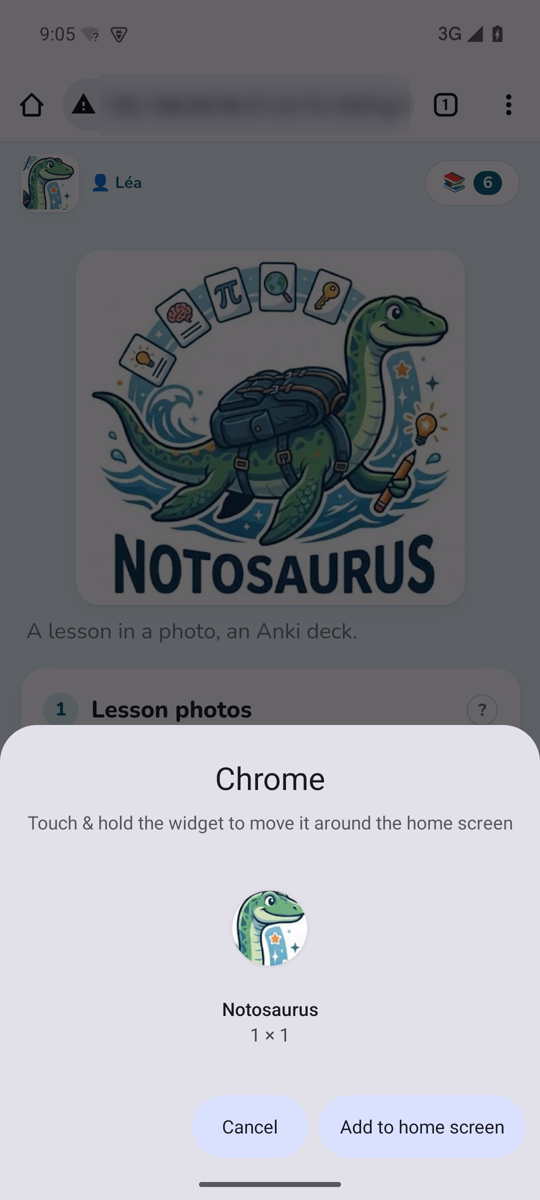
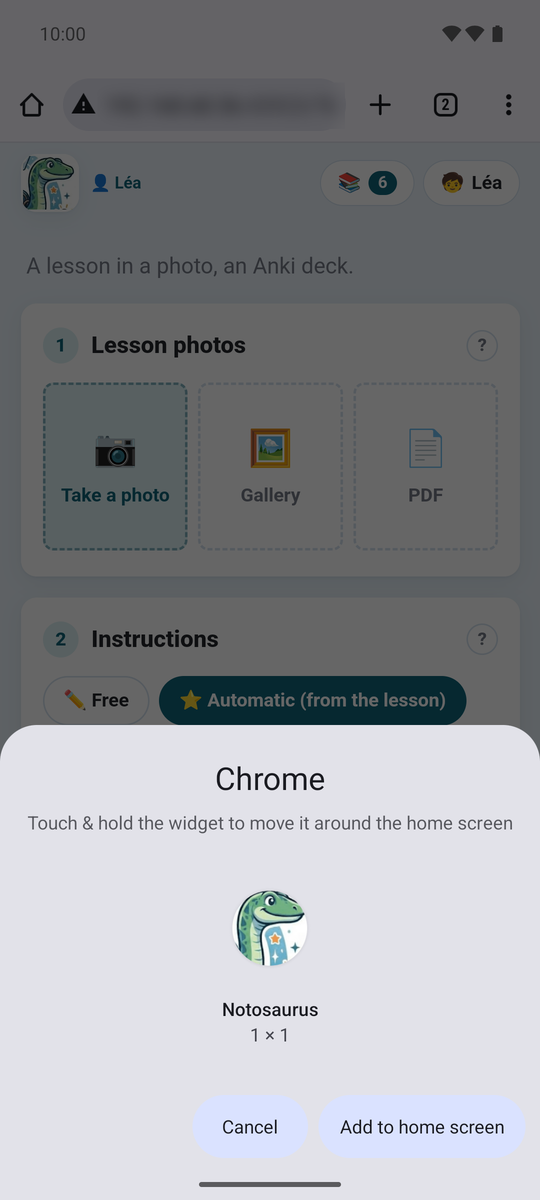
📸 Docs: the Android app's screenshots (English and French) (#312)
The app's group of pages had no picture. 11 screenshots per language
(English, French), taken on an emulator (Android 15, AnkiDroid 2.25.0,
read-only AVD), with the debug build calling **Notosaurus's test relay**
(its default: real Gemini, real voices, its own test licence); the demo
lessons of `docs/demo/<lang>/lessons` pushed into the app's storage (no
generation); a clean status bar (demo mode: 10:00, full Wi-Fi).

| Shot | Page |
|---|---|
| `app-welcome` | android-app, Before you start |
| `app-home`, `app-review` | android-app, Your first lesson |
| `app-report` (⚑ Report content sheet) | android-app, The app's own |
| `app-settings` (no subscription yet: the trial starts with the first
lesson) | app-settings, app-subscription |
| `app-settings-more` (instructions, voices with Voice per language,
lessons on this phone) | app-settings |
| `app-ankidroid-permission`, `app-ankidroid-decks` | app-ankidroid |
| `app-ankidroid-card` (a card with its sound and ✎ Notosaurus) |
app-ankidroid, Correcting a card from AnkiDroid |
| `app-computer-settings`, `app-computer-unreachable` |
app-with-computer |

What the screenshots don't show, honestly:
- **No subscription buttons**: Google Play offers nothing on the
emulator, so the 🔑 section shows the trial line and the licence key
field, no prices. The licence key was cleared for that shot (none shown
anywhere).
- The debug build's **Real relay / Test relay** chips were hidden for
the shots: a release doesn't have them.
[…]

diff --git a/docs/src/content/docs/fr/android-app.md b/docs/src/content/docs/fr/android-app.md
@@ -37,6 +37,8 @@ leçons, puis vous demande d'accepter sa [politique de confidentialité](../app-
 - Une page de cahier montre souvent le nom de l'enfant : cachez-le avec **🖍** avant l'envoi
   (voir [Photos et PDF](../photos/)).
 
+![L'accueil de l'application : un outil pour les parents, Gemini, l'essai gratuit, la politique de confidentialité à accepter](../../../assets/screenshots/fr/app-welcome.png)
+
 ## Votre première leçon
 
 1. **🧒** en haut de la page : ajoutez la fiche de votre enfant (prénom, classe), pour que les
@@ -53,6 +55,10 @@ leçons, puis vous demande d'accepter sa [politique de confidentialité](../app-
 
 La leçon est gardée sur le téléphone : rouvrez-la depuis **📚** pour la corriger et la renvoyer.
 Ses cartes sont mises à jour dans AnkiDroid, pas dupliquées.
+
+![La page principale de l'application : les photos de la leçon, la consigne avec 🎤, l'enfant choisi en haut](../../../assets/screenshots/fr/app-home.png)
+
+![Les cartes d'une leçon dans l'application, avec le champ de correction et son 🎤](../../../assets/screenshots/fr/app-review.png)
 
 ## Où elle fonctionne
 
@@ -82,6 +88,8 @@ pas :
 - **Les mises à jour** passent par Google Play. Quand une nouvelle version est disponible,
   l'application dit **Une nouvelle version de Notosaurus est disponible**, avec un bouton
   **Mettre à jour**.
+
+![La feuille Signaler un contenu : pourquoi, un commentaire, et exactement ce qui sera envoyé](../../../assets/screenshots/fr/app-report.png)
 
 Voir aussi [Les réglages de l'application](../app-settings/) et, quand quelque chose ne va pas,
 [Dépannage de l'application](../app-troubleshooting/).

diff --git a/docs/src/content/docs/fr/app-ankidroid.md b/docs/src/content/docs/fr/app-ankidroid.md
@@ -18,6 +18,8 @@ pas de `.apkg`, pas d'ordinateur, pas de synchronisation à attendre.
 installé et Notosaurus peut y ajouter des cartes**, ou un bouton pour **Installer AnkiDroid** ou
 pour **Autoriser**.
 
+![AnkiDroid demande si Notosaurus peut accéder aux notes, cartes, types de notes et paquets, et en créer](../../../assets/screenshots/fr/app-ankidroid-permission.png)
+
 ## Envoyer les cartes
 
 **📥 Ajouter à Anki** écrit les cartes dans AnkiDroid, dans le paquet de la leçon, avec leurs sons
@@ -37,6 +39,8 @@ elles arrivent alors dans Anki sur un ordinateur, ou sur un autre téléphone.
 **Ouvrir AnkiDroid**, en haut de la page et en bas, l'ouvre d'un geste, pour réviser les cartes
 qui viennent d'être envoyées.
 
+![Les paquets d'AnkiDroid après l'envoi de leçons depuis l'application : un paquet par matière, un sous-paquet par leçon](../../../assets/screenshots/fr/app-ankidroid-decks.png)
+
 ## Corriger une carte depuis AnkiDroid
 
 Sous chaque réponse dans AnkiDroid, un petit **✎ Notosaurus** ouvre la carte dans l'application
@@ -49,6 +53,8 @@ Sur **AnkiDroid 2.25 et avant**, activez d'abord **Paramètres → Avancé → A
 lancer d'autres applications** dans AnkiDroid : sans ce réglage, AnkiDroid bloque tout lien d'une
 carte (« La carte ne peut pas lancer d'autres applications »). Les versions suivantes laissent
 passer les liens vers une page web.
+
+![Une carte dans AnkiDroid, avec son son et, sous la réponse, ✎ Notosaurus](../../../assets/screenshots/fr/app-ankidroid-card.png)
 
 ## Le paquet filtré d'un contrôle
 

diff --git a/docs/src/content/docs/android-app.md b/docs/src/content/docs/android-app.md
@@ -34,6 +34,8 @@ you to accept its [privacy policy](../app-privacy/):
 - A notebook page often shows the child's name: hide it with **🖍** before sending (see
   [Photos and PDFs](../photos/)).
 
+![The app's welcome: a tool for parents, Gemini, the free trial, the privacy policy to accept](../../assets/screenshots/en/app-welcome.png)
+
 ## Your first lesson
 
 1. **🧒** at the top of the page: add your child's card (first name, class), so that the cards
@@ -49,6 +51,10 @@ you to accept its [privacy policy](../app-privacy/):
 
 The lesson is kept on the phone: reopen it from **📚** to correct it and send it again. Its cards
 are updated in AnkiDroid, not duplicated.
+
+![The app's main page: the lesson photos, the instructions with 🎤, the child chosen at the top](../../assets/screenshots/en/app-home.png)
+
+![A lesson's cards in the app, with the correction field and its 🎤](../../assets/screenshots/en/app-review.png)
 
 ## Where it works
 
@@ -74,6 +80,8 @@ Most of Notosaurus is the same as on the computer. What only the app has, or doe
   for Notosaurus.
 - **Updates** come through Google Play. When a new version is available, the app says **A new
   version of Notosaurus is available**, with an **Update** button.
+
+![The Report content sheet: why, a comment, and exactly what will be sent](../../assets/screenshots/en/app-report.png)
 
 See also [The app's settings](../app-settings/) and, when something goes wrong,
 [Troubleshooting the app](../app-troubleshooting/).

diff --git a/docs/src/content/docs/app-ankidroid.md b/docs/src/content/docs/app-ankidroid.md
@@ -17,6 +17,8 @@ computer, no sync to wait for.
 **📥 AnkiDroid**, in the app's settings, says where things stand: **✓ AnkiDroid is installed and
 Notosaurus may add cards to it**, or a button to **Install AnkiDroid** or to **Allow**.
 
+![AnkiDroid asks whether Notosaurus may access and create notes, cards, note types and decks](../../assets/screenshots/en/app-ankidroid-permission.png)
+
 ## Sending the cards
 
 **📥 Add to Anki** writes the cards into AnkiDroid, in the lesson's deck, with their sounds and
@@ -36,6 +38,8 @@ Anki on a computer, or another phone.
 **Open AnkiDroid**, at the top of the page and at its foot, opens it in one tap, to review the
 cards just sent.
 
+![AnkiDroid's decks after sending lessons from the app: one deck per subject, a sub-deck per lesson](../../assets/screenshots/en/app-ankidroid-decks.png)
+
 ## Correcting a card from AnkiDroid
 
 Under every answer in AnkiDroid, a small **✎ Notosaurus** opens the card in the app to correct it
@@ -46,6 +50,8 @@ same note: its review history stays. A lesson made with the computer
 On **AnkiDroid 2.25 and before**, first turn on **Settings → Advanced → Allow cards to launch other
 apps** in AnkiDroid: without it, AnkiDroid blocks every link on a card ("Card blocked from
 launching another app"). Later versions let links to a web page through.
+
+![A card in AnkiDroid with its sound and, under the answer, ✎ Notosaurus](../../assets/screenshots/en/app-ankidroid-card.png)
 
 ## A test's filtered deck
 

diff --git a/docs/src/content/docs/fr/app-settings.md b/docs/src/content/docs/fr/app-settings.md
@@ -6,6 +6,8 @@ description: "La page de réglages propre à l'application Android : l'abonnemen
 **⚙**, en haut de la page, ouvre les réglages propres à l'application. Ils s'enregistrent au fur
 et à mesure.
 
+![Le haut des réglages de l'application : abonnement, AnkiDroid, où travaille Notosaurus](../../../assets/screenshots/fr/app-settings.png)
+
 - **🔑 Abonnement** : l'essai gratuit ou la formule, les crédits qui restent ce mois-ci et
   aujourd'hui, quand ils sont renouvelés ; **J'ai déjà un abonnement**, **Gérer l'abonnement
   (Google Play)**, et un champ **Clé de licence**. Voir [L'abonnement](../app-subscription/).
@@ -25,6 +27,8 @@ et à mesure.
 - **ℹ À propos** : la version, la licence, le code source, la
   [politique de confidentialité](../app-privacy/) et les licences des bibliothèques utilisées.
 - **Avancé** : l'adresse du relais, pour les tests seulement. Laissez-la telle quelle.
+
+![Plus bas : instructions pour l'IA, voix des cartes, leçons sur ce téléphone](../../../assets/screenshots/fr/app-settings-more.png)
 
 En bas, **🌐** choisit la langue de la page, et **📖 Aide** ouvre cette documentation.
 

diff --git a/docs/src/content/docs/app-settings.md b/docs/src/content/docs/app-settings.md
@@ -5,6 +5,8 @@ description: "The Android app's own settings page: the subscription, AnkiDroid, 
 
 **⚙**, at the top of the page, opens the app's own settings. They are saved as you go.
 
+![The top of the app's settings: subscription, AnkiDroid, where Notosaurus works](../../assets/screenshots/en/app-settings.png)
+
 - **🔑 Subscription**: the free trial or the plan, the credits left this month and today, when they
   are renewed; **I already have a subscription**, **Manage the subscription (Google Play)**, and a
   **Licence key** field. See [The subscription](../app-subscription/).
@@ -22,6 +24,8 @@ description: "The Android app's own settings page: the subscription, AnkiDroid, 
 - **ℹ About**: the version, the licence, the source code, the
   [privacy policy](../app-privacy/) and the licences of the libraries used.
 - **Advanced**: the relay address, for tests only. Leave it as it is.
+
+![Further down: instructions for the AI, card voices, lessons on this phone](../../assets/screenshots/en/app-settings-more.png)
 
 At the bottom, **🌐** chooses the language of the page, and **📖 Help** opens this documentation.
 

diff --git a/docs/src/content/docs/fr/app-with-computer.md b/docs/src/content/docs/fr/app-with-computer.md
@@ -26,6 +26,8 @@ Anki doit être ouvert sur l'ordinateur, avec le greffon, et le téléphone sur 
 L'application vérifie que l'ordinateur répond, le garde, et affiche sa page. **Changer
 d'ordinateur** en scanne un autre.
 
+![Les réglages de l'application reliée à un ordinateur : son nom, Changer d'ordinateur, À propos](../../../assets/screenshots/fr/app-computer-settings.png)
+
 ## Ce qui est sur l'ordinateur
 
 Dans ce mode, tout est à l'ordinateur : ses leçons, son service d'IA et sa clé, ses enfants, et
@@ -43,6 +45,8 @@ avec le greffon), et ce téléphone être sur le même Wi-Fi. Ensuite :
 - **Scanner à nouveau le QR code**, par exemple quand l'adresse de l'ordinateur a changé (après
   un redémarrage de la box) ;
 - **Utiliser sans ordinateur** : retour à **📱 Sur ce téléphone**.
+
+![L'ordinateur ne répond pas : Réessayer, Scanner à nouveau le QR code, Utiliser sans ordinateur](../../../assets/screenshots/fr/app-computer-unreachable.png)
 
 ## Deux modes, deux listes de leçons
 

diff --git a/docs/src/content/docs/app-with-computer.md b/docs/src/content/docs/app-with-computer.md
@@ -25,6 +25,8 @@ Anki must be open on the computer, with the add-on, and the phone on the same Wi
 The app checks the computer answers, keeps it, and shows its page. **Change computer** scans
 another one.
 
+![The app's settings with a computer connected: its name, Change computer, About](../../assets/screenshots/en/app-computer-settings.png)
+
 ## What is on the computer
 
 In this mode, everything is the computer's: its lessons, its AI service and key, its children,
@@ -42,6 +44,8 @@ the add-on), and this phone on the same Wi-Fi. Then:
 - **Scan the QR code again**, for instance when the computer's address changed (after restarting
   the router);
 - **Use without computer**: back to **📱 On this phone**.
+
+![The computer doesn't answer: Try again, Scan the QR code again, Use without computer](../../assets/screenshots/en/app-computer-unreachable.png)
 
 ## Two modes, two lists of lessons
 

diff --git a/docs/src/content/docs/app-subscription.md b/docs/src/content/docs/app-subscription.md
@@ -20,6 +20,8 @@ lesson you make starts it, and the app then says how many credits it gives and u
   phone (Play Integrity), and the app knows this phone by a fingerprint, never its identifier
   itself. On an emulator, the trial isn't offered.
 
+![The app's settings without a subscription: the free trial will start with the first lesson](../../assets/screenshots/en/app-settings.png)
+
 ## Subscribing
 
 In the settings, **🔑 Subscription** offers the subscription by the month and by the year, with

diff --git a/docs/src/content/docs/fr/app-subscription.md b/docs/src/content/docs/fr/app-subscription.md
@@ -22,6 +22,8 @@ et jusqu'à quand.
   Play, sur un vrai téléphone (Play Integrity), et l'application reconnaît ce téléphone par une
   empreinte, jamais son identifiant lui-même. Sur un émulateur, l'essai n'est pas proposé.
 
+![Les réglages de l'application sans abonnement : l'essai gratuit démarrera à la première leçon](../../../assets/screenshots/fr/app-settings.png)
+
 ## S'abonner
 
 Dans les réglages, **🔑 Abonnement** propose l'abonnement au mois et à l'année, avec leur prix.
